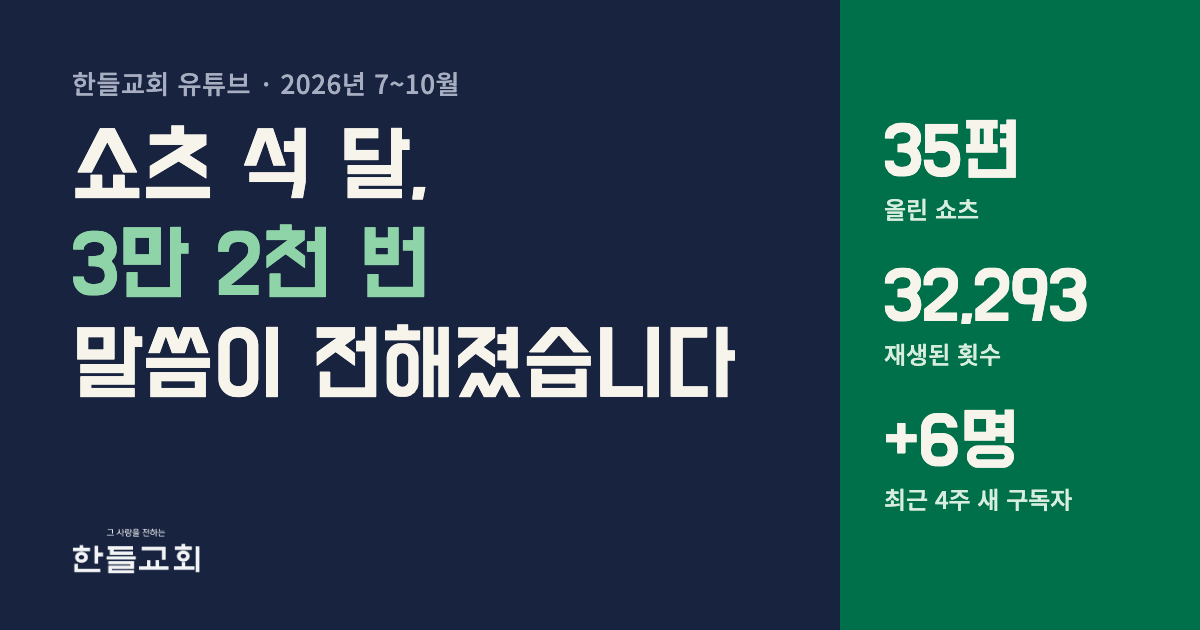
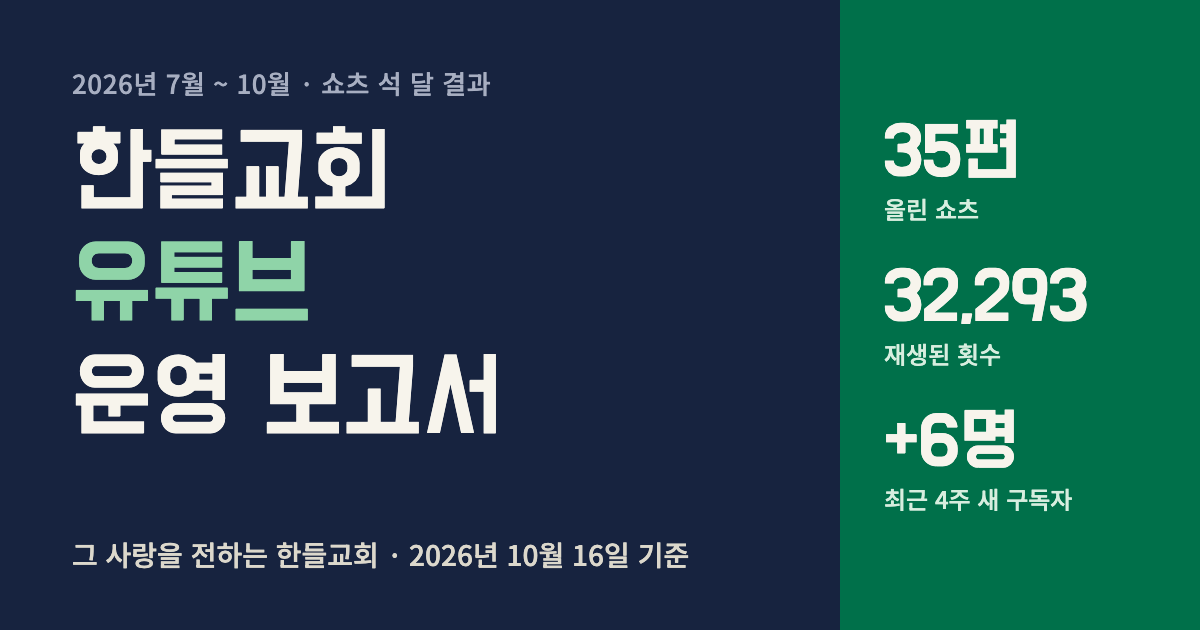
공유 카드와 제목을 '한들교회 유튜브 운영 보고서'로 변경

diff --git a/index.html b/index.html
@@ -6,14 +6,14 @@
 <meta name="description" content="7월 14일부터 올린 쇼츠 35편의 성과, 구독자 변화, 앞으로의 전략을 정리했습니다. (2026년 10월 16일 기준)">
 <meta property="og:type" content="website">
 <meta property="og:site_name" content="한들교회">
-<meta property="og:title" content="쇼츠 석 달, 3만 2천 번 말씀이 전해졌습니다">
-<meta property="og:description" content="한들교회 유튜브 쇼츠 보고 · 35편, 32,293번 재생, 앞으로의 전략">
+<meta property="og:title" content="한들교회 유튜브 운영 보고서">
+<meta property="og:description" content="2026년 7~10월 · 쇼츠 35편, 32,293번 재생, 구독자 변화와 앞으로의 전략">
 <meta property="og:url" content="https://fastkorea12-png.github.io/handeul-youtube-report/">
 <meta property="og:image" content="https://fastkorea12-png.github.io/handeul-youtube-report/og.png">
 <meta property="og:image:width" content="1200">
 <meta property="og:image:height" content="630">
 <meta name="twitter:card" content="summary_large_image">
-<title>한들교회 쇼츠 석 달</title>
+<title>한들교회 유튜브 운영 보고서</title>
 <link rel="preconnect" href="https://fonts.googleapis.com">
 <link rel="stylesheet" href="https://fonts.googleapis.com/css2?family=Do+Hyeon&family=Noto+Sans+KR:wght@400;500;700&display=swap">
 <style>
@@ -129,7 +129,7 @@ footer { font-size: 14px; color: var(--ink-soft); border-top: 1px solid var(--li
 <body>
 <main>
   <header>
-    <p class="eyebrow">한들교회 유튜브 · 2026년 7월 14일 ~ 10월 15일</p>
+    <p class="eyebrow">한들교회 유튜브 운영 보고서 · 2026년 7월 14일 ~ 10월 15일</p>
     <h1>쇼츠 석 달, <em>3만 2천 번</em> 말씀이 전해졌습니다</h1>
     <p class="lead">7월 중순부터 주일 설교의 한 장면을 1분 안쪽 짧은 영상(쇼츠)으로 만들어 올리고 있습니다. 석 달 동안 올린 35편을 합쳐 3만 2천 번 넘게 재생됐습니다.</p>
   </header>
